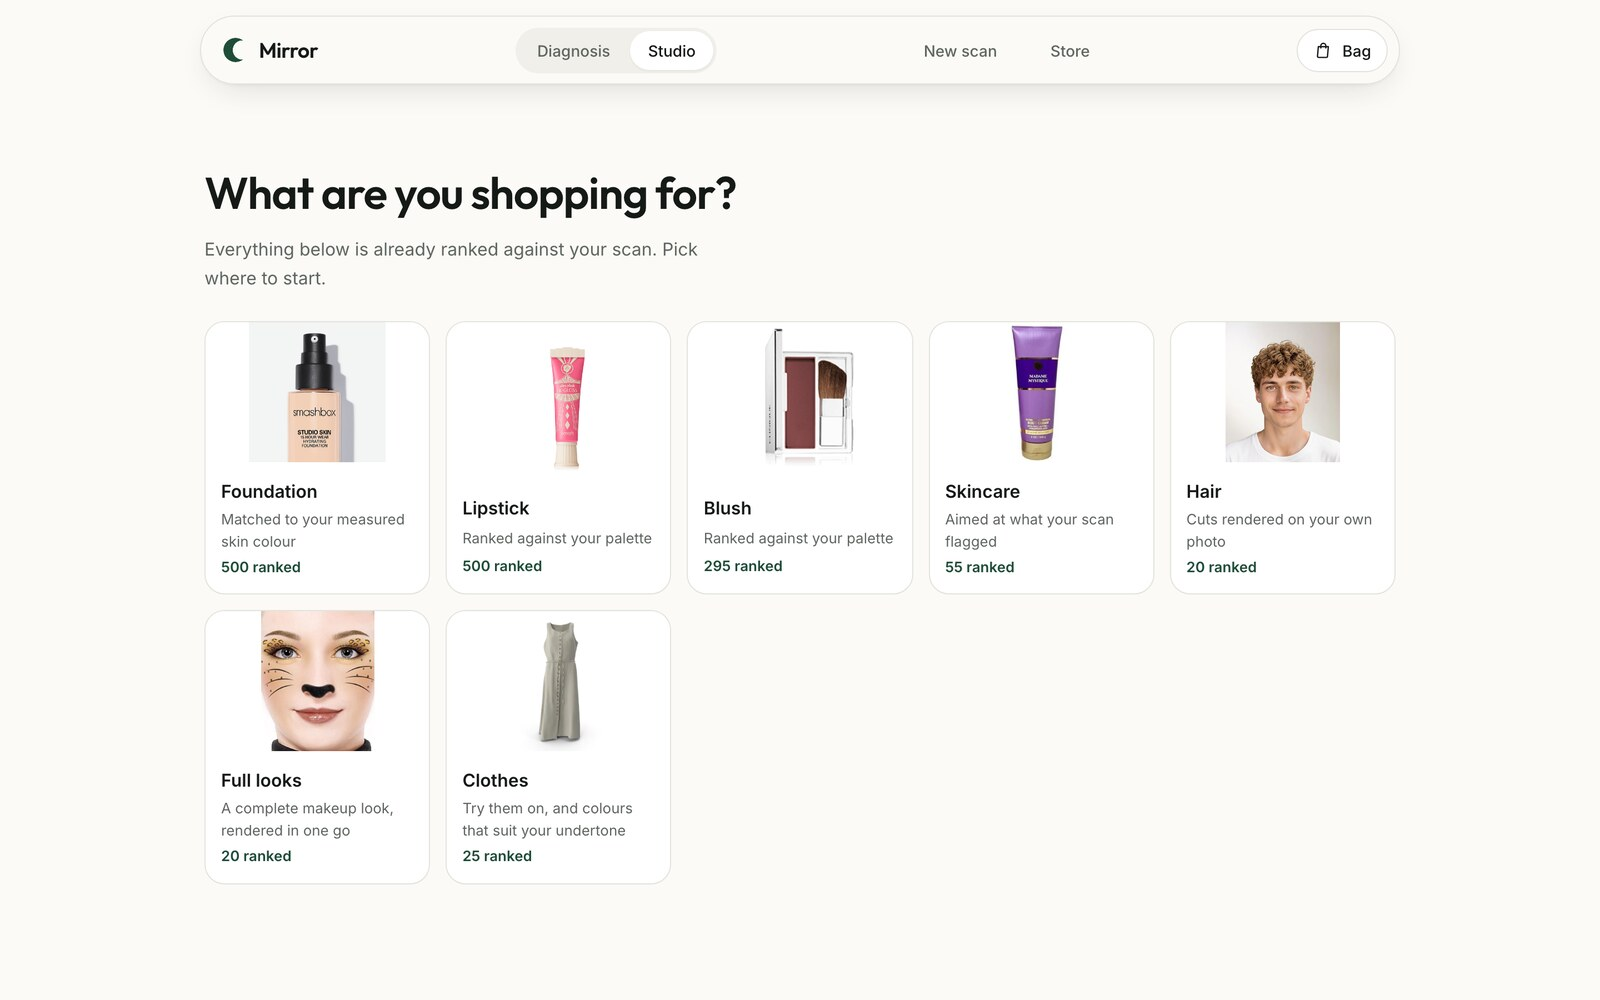
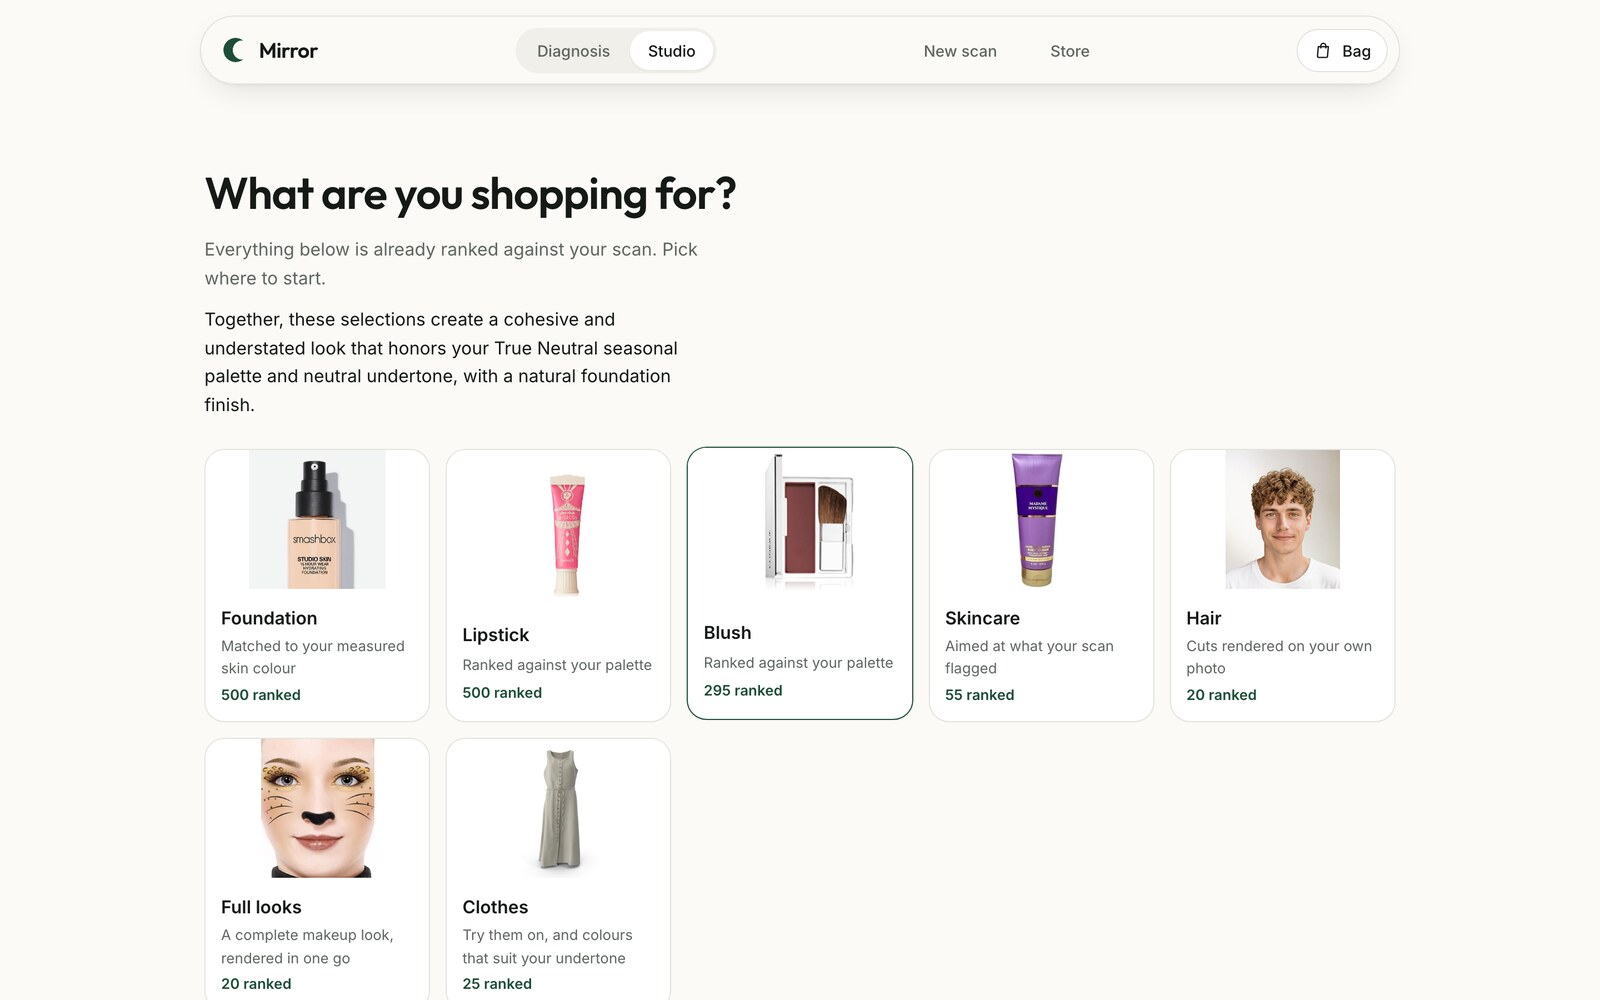
Verify the stylist layer against a live key
Confirmed end to end: six of seven picks come back from the model, each citing
the reading that justified it ('your skin reads oily at 78%'), and the 'works
together' line is written rather than left empty.

Screenshots refreshed so they show the stylist layer, which the earlier set
predated.

The crash I was chasing was not one: duplicate servers were colliding on the
port, so the request hit a dying process. A single instance answers in 18s.

diff --git a/src/lib/judge.ts b/src/lib/judge.ts
@@ -45,7 +45,15 @@ export async function judge(
   try {
     const body = {
       contents: [{ parts: [{ text: prompt(shortlists, context) }] }],
-      generationConfig: { responseMimeType: 'application/json', temperature: 0.4 },
+      generationConfig: {
+        responseMimeType: 'application/json',
+        temperature: 0.4,
+        // 2.5 models think before answering unless told not to, which cost ~20s
+        // on a request the shopper waits through. The task is pick-one-of-12
+        // per aisle from a list already ranked by code, so there is nothing
+        // here worth reasoning about at that price.
+        thinkingConfig: { thinkingBudget: 0 },
+      },
     }
     const res = await fetch(
       `https://generativelanguage.googleapis.com/v1beta/models/${MODEL}:generateContent?key=${key}`,
